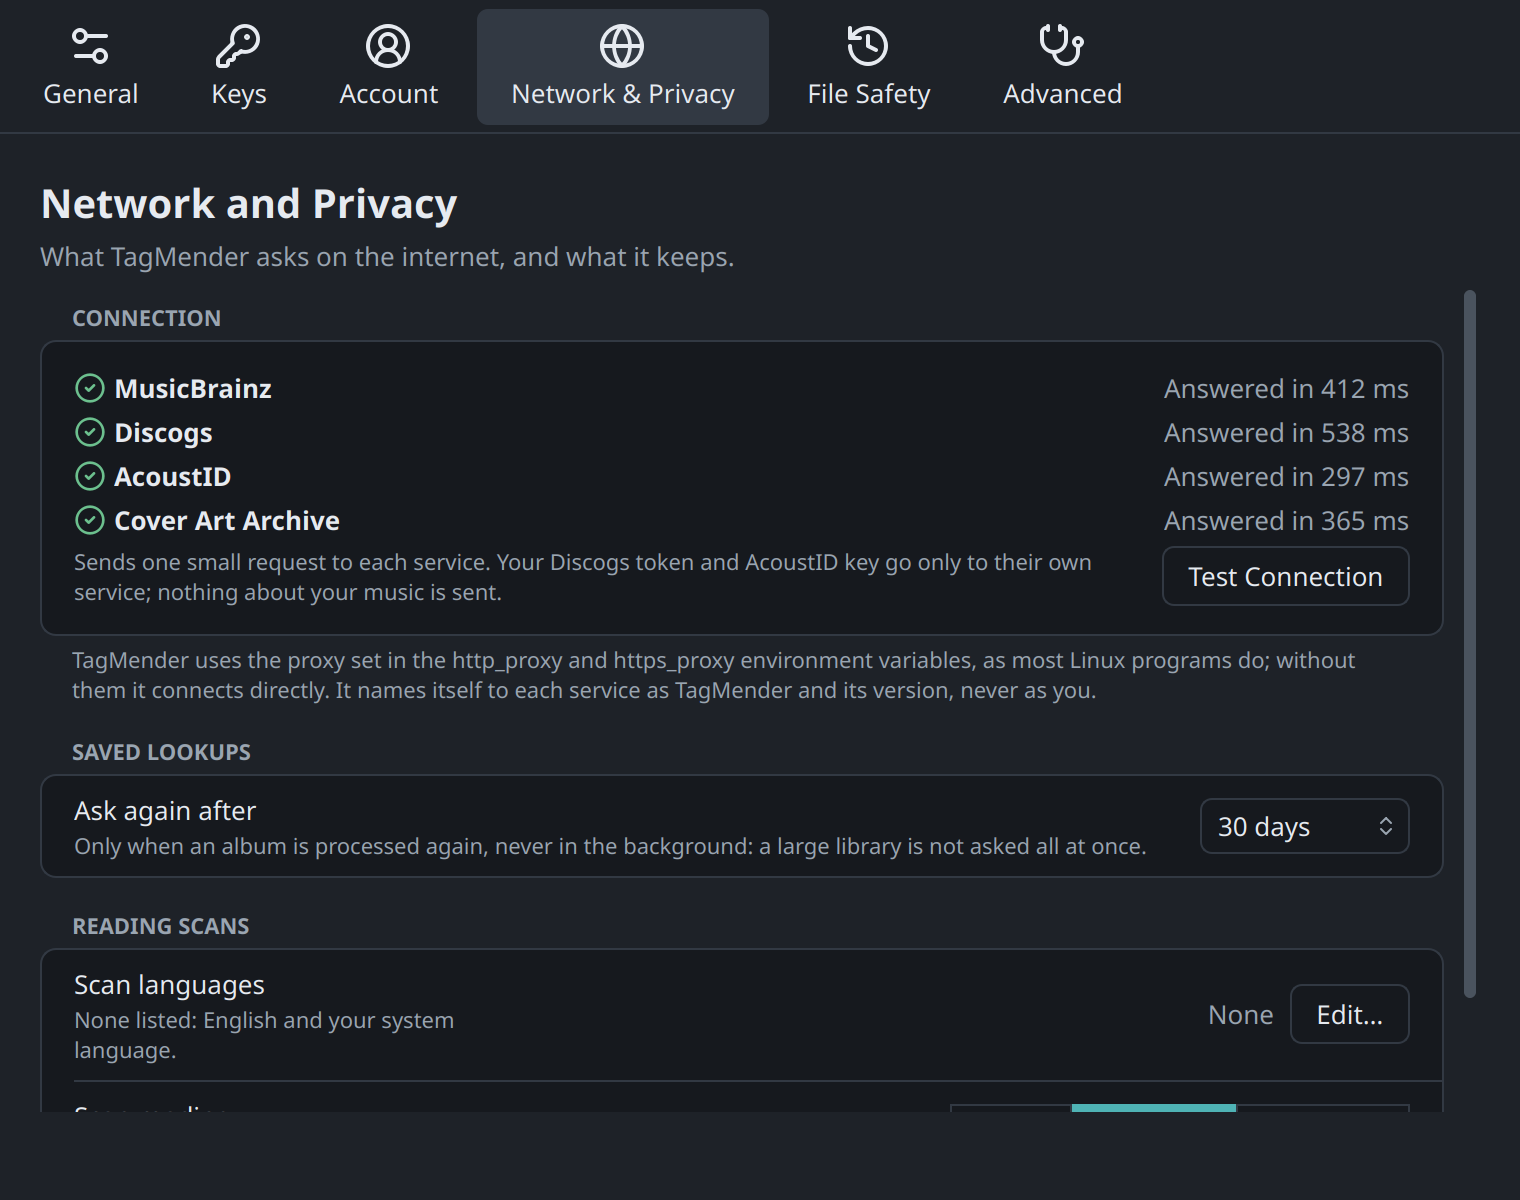
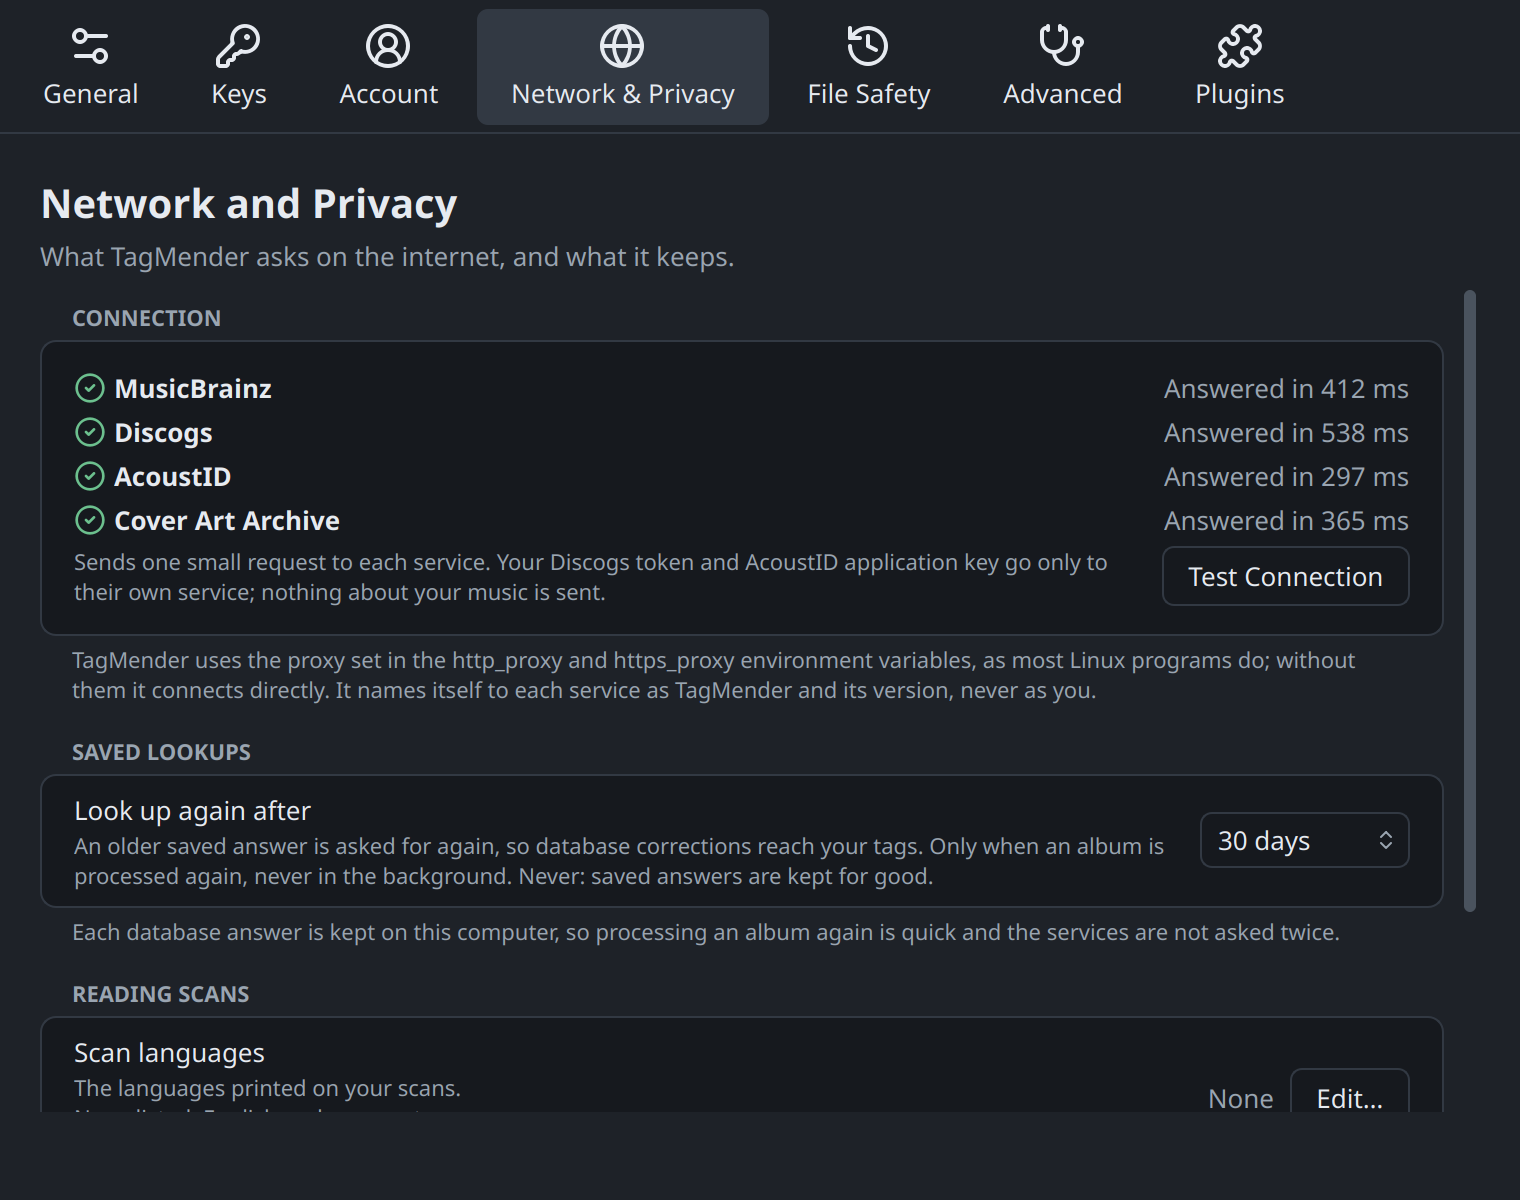
Release 0.8.8
- README screenshots replaced with the current interface
- Start from a preset: only one preset can be chosen
- Overview columns fit the window; no sideways scrolling

diff --git a/gui/overview.py b/gui/overview.py
@@ -367,6 +367,7 @@ class Overview(QWidget):
         self._sized_by_you, self._fitting, self._header_held = set(), False, False
         h.sectionResized.connect(self.column_resized)
         h.viewport().installEventFilter(self)             # (a drag is yours only when it starts on the header)
+        self.table.viewport().installEventFilter(self)    # (the list narrower or wider: fitted to the room)
         self._fit_timer = QTimer(self)
         self._fit_timer.setSingleShot(True)
         self._fit_timer.setInterval(0)
@@ -405,9 +406,10 @@ class Overview(QWidget):
     def filter(self, text):
         self.proxy.setFilterFixedString(text)
 
-    # page widths under which lower-priority columns give way (the inspector shows them all):
-    # Why under 860 px (1280 px with the inspector open), Source and Score under 600 (960 px)
-    NARROW = {5: 860, 3: 600, 7: 520, 2: 420}                  # (Source stays longest: which database said it)
+    # page widths under which lower-priority columns give way (the inspector shows them all), so
+    # the others fit their text without scrolling sideways: Why first, then Score, the scans and
+    # Source (which database said it stays longest)
+    NARROW = {5: 1040, 3: 895, 7: 815, 2: 735}            # (each: the narrowest the rest fit in)
     STATUS_MOST = 150                                 # under 600 px the Status column is cut ("Changed sin…",
                                                       # the whole word in its tooltip): the artist stays in view
 
@@ -422,10 +424,16 @@ class Overview(QWidget):
         self.fit_status()
 
     COLUMN_MOST = {1: 340, 4: 260, 2: 300, 7: 300}       # (fitted, at most: drag for more)
+    # when the fitted columns are wider than the list: these give way first, down to this much
+    # (the album folder and the changes are cut and shown whole when pointed at)
+    COLUMN_LEAST = ((1, 180), (4, 140), (6, 110), (2, 110), (7, 90))
+    LAST_LEAST = 120                                     # (the last column - Why - keeps this much)
 
     def eventFilter(self, obj, e):
         from PySide6.QtCore import QEvent
-        if hasattr(self, "table") and obj is self.table.horizontalHeader().viewport():
+        if hasattr(self, "_fit_timer") and obj is self.table.viewport() and e.type() == QEvent.Resize:
+            self._fit_timer.start()
+        elif hasattr(self, "table") and obj is self.table.horizontalHeader().viewport():
             if e.type() == QEvent.MouseButtonPress and e.button() == Qt.LeftButton:
                 self._header_held = True
             elif e.type() == QEvent.MouseButtonRelease and e.button() == Qt.LeftButton:
@@ -454,11 +462,26 @@ class Overview(QWidget):
         last = self.last_visible_column()
         self._fitting = True
         try:
+            wants = {}
             for c in range(1, len(PlanModel.COLS)):
                 if c in self._sized_by_you or c == last or self.table.isColumnHidden(c):
                     continue
                 want = max(self.table.sizeHintForColumn(c), h.sectionSizeHint(c))
-                want = min(want, self.COLUMN_MOST.get(c, want))
+                wants[c] = min(want, self.COLUMN_MOST.get(c, want))
+            # (all in view where they can be: the widest give way before the list scrolls - while
+            # the list is shown, so measured; it is fitted again when its room changes)
+            room = self.table.viewport().width() if self.table.isVisible() else 0
+            used = sum(wants.get(c, self.table.columnWidth(c)) for c in range(len(PlanModel.COLS))
+                       if c != last and not self.table.isColumnHidden(c))
+            over = used + self.LAST_LEAST - room if room else 0
+            for c, least in self.COLUMN_LEAST:
+                if over <= 0:
+                    break
+                if c in wants and wants[c] > least:
+                    give = min(over, wants[c] - least)
+                    wants[c] -= give
+                    over -= give
+            for c, want in wants.items():
                 if self.table.columnWidth(c) != want:
                     h.resizeSection(c, want)
         finally:

diff --git a/tools/gui_screens.py b/tools/gui_screens.py
@@ -72,7 +72,12 @@ def isolate(scale=1):
     import credentials                                  # (no key of the person's own: Setup shows "Not set")
     for var in credentials.ENV.values():
         os.environ.pop(var, None)
-    os.environ.update(QT_QPA_PLATFORM="offscreen", TAGMENDER_TAGGER_INI="/nonexistent",
+    # (a screen large enough for the biggest window at this scale: Qt's offscreen screen is
+    # otherwise 800x800, and a window larger than its screen is cut to it)
+    screen = tmp / "offscreen.json"
+    screen.write_text(json.dumps({"screens": [{"name": "shots", "x": 0, "y": 0, "width": 4000, "height": 3000,
+                                               "logicalDpi": 96, "logicalBaseDpi": 96, "dpr": 1}]}))
+    os.environ.update(QT_QPA_PLATFORM=f"offscreen:configfile={screen}", TAGMENDER_TAGGER_INI="/nonexistent",
                       PYTHONDONTWRITEBYTECODE="1", QT_ACCESSIBILITY="1")
     sys.dont_write_bytecode = True
 
@@ -469,8 +474,8 @@ def run(out, only):
 def shoot_all(sh, gui, sheets, plan, attention, theme, size, QPoint, QColor, QPainter, Qt):
     import copy
     win = gui.Main()
-    win.resize(*size)
     win.show()
+    win.resize(*size)                                   # (after show: the window first fits itself, 1180x760)
     win.inspector_wanted = True                         # (wanted: it steps aside on the empty Overview)
     win.place_inspector()
     sh.settle(20)
@@ -678,8 +683,8 @@ def shoot_m7(sh, gui, plan, wav, theme, size, QPoint, QColor, QPainter, Qt):
     import copy
     from gui import dialogs, search
     win = gui.Main()
-    win.resize(*size)
     win.show()
+    win.resize(*size)                                   # (after show: the window first fits itself, 1180x760)
     win.inspector_wanted = True
     win.place_inspector()
     sh.settle(20)
@@ -849,8 +854,8 @@ def shoot_m8(sh, gui, plan, found, wav, theme, size, QPoint, QColor, QPainter, Q
     from gui import account, browser, manual_match
     from gui import acoustid_submit as gacs
     win = gui.Main()
-    win.resize(*size)
     win.show()
+    win.resize(*size)                                   # (after show: the window first fits itself, 1180x760)
     win.inspector_wanted = True
     win.place_inspector()
     sh.settle(20)

diff --git a/tests/test_v086_columns.py b/tests/test_v086_columns.py
@@ -17,7 +17,7 @@ def album(folder, why=(), conflicts=()):
 class V086Columns(tg.Gui):
     def test_every_column_can_be_resized_and_a_drag_is_kept(self):
         from gui.models import PlanModel
-        self.win.resize(1500, 800)
+        self.win.resize(2400, 800)                                # (room for every column's text)
         self.win.inspector.hide()
         self.app.processEvents()
         ov = self.win.pages["Overview"]
@@ -72,6 +72,19 @@ class V086Columns(tg.Gui):
         ov.table.horizontalHeader().resizeSection(5, 400)        # (the last column: Qt's, not yours)
         ov._header_held = False
         self.assertEqual(ov._sized_by_you, set())
+
+    def test_columns_give_way_before_the_list_scrolls(self):
+        self.win.resize(1440, 900)                                # (the inspector open: a mid-size page)
+        self.win.inspector.show()
+        self.app.processEvents()
+        ov = self.win.pages["Overview"]
+        ov.model.set_plan({"job": "j", "profile": "p", "operation": "in_place",
+                           "albums": [album("/m/Some Band With A Long Name/An Album With A Long Title", why=["x"])]})
+        ov.views.setCurrentWidget(ov.results)
+        self.win.go("Overview")
+        for _ in range(5):
+            self.app.processEvents()
+        self.assertLessEqual(ov.table.horizontalHeader().length(), ov.table.viewport().width())
 
 
 if __name__ == "__main__":

diff --git a/gui/profile_editor.py b/gui/profile_editor.py
@@ -24,8 +24,8 @@ import html
 from dataclasses import dataclass, field
 
 from PySide6.QtCore import Qt, Signal
-from PySide6.QtWidgets import (QComboBox, QDialog, QInputDialog, QLabel, QLineEdit, QPushButton, QRadioButton,
-                               QScrollArea, QSizePolicy, QVBoxLayout, QWidget)
+from PySide6.QtWidgets import (QButtonGroup, QComboBox, QDialog, QInputDialog, QLabel, QLineEdit, QPushButton,
+                               QRadioButton, QScrollArea, QSizePolicy, QVBoxLayout, QWidget)
 
 import naming
 import profiles as pf
@@ -1337,6 +1337,10 @@ class PresetSheet(QDialog):
             lay.addWidget(self.name)
             lay.addWidget(caption(tr("Start from:"), "hint"))
         self.cards = {}
+        # (one choice: each button sits in its own card, so they are grouped - Qt makes radio
+        # buttons exclusive only among those with the same parent)
+        self.choice = QButtonGroup(self)
+        self.choice.setExclusive(True)
         for key, (title, about, _v) in PRESETS.items():
             card = QWidget()
             v = QVBoxLayout(card)
@@ -1350,6 +1354,7 @@ class PresetSheet(QDialog):
             note.setContentsMargins(24, 0, 0, 0)
             v.addWidget(note)
             lay.addWidget(card)
+            self.choice.addButton(rb)
             self.cards[key] = rb
         self.cards["typical"].setChecked(True)
         lay.addStretch(1)

diff --git a/tests/test_v086_shared_editor.py b/tests/test_v086_shared_editor.py
@@ -64,6 +64,15 @@ class SharedEditor(tg.Gui):
         self.assertTrue(p.save())
         self.assertEqual(pf.load("A").data["genres"]["max"], default)
 
+    def test_only_one_preset_can_be_chosen(self):
+        from gui.profile_editor import PresetSheet
+        dlg = PresetSheet(self.win, "Start from a preset")
+        dlg.cards["collector"].click()
+        dlg.cards["keep"].click()
+        self.assertEqual([k for k, rb in dlg.cards.items() if rb.isChecked()], ["keep"])
+        self.assertEqual(dlg.preset(), "keep")
+        dlg.deleteLater()
+
     def test_a_preset_changes_only_this_profile(self):
         p = self.page("A")
         before = pf.load("B").data["artwork"]["enlarge"]

diff --git a/version.py b/version.py
@@ -1,2 +1,2 @@
 """TagMender's version (one place; packaging and `tagmender --version` read it)."""
-VERSION = "0.8.7"
+VERSION = "0.8.8"

diff --git a/docs/RELEASE_NOTES.md b/docs/RELEASE_NOTES.md
@@ -1,5 +1,14 @@
 # Release notes
 
+## 0.8.8
+
+- *Start from a preset* lets you pick one preset only (all three could be selected at once).
+- Overview: the columns fit the list instead of running past its edge. The widest (album
+  folder, changes, profile) give way first, cut and shown whole when pointed at, and Why, Score,
+  Scans and Source make room in that order as the window narrows, so the Score stays in view
+  at common window sizes. The columns are fitted again when the inspector opens or closes.
+- The README's screenshots show this version.
+
 ## 0.8.7
 
 Fixes to the 0.8.6 changes.

diff --git a/README.md b/README.md
@@ -10,7 +10,7 @@
 </p>
 
 <p align="center">
-  <img alt="Version 0.8.7" src="https://img.shields.io/badge/version-0.8.7-0f7b7b">
+  <img alt="Version 0.8.8" src="https://img.shields.io/badge/version-0.8.8-0f7b7b">
   <img alt="Licence GPL-2.0-or-later" src="https://img.shields.io/badge/licence-GPL--2.0--or--later-blue">
   <img alt="Linux" src="https://img.shields.io/badge/platform-Linux-informational">
   <img alt="Python 3.10+" src="https://img.shields.io/badge/python-3.10%2B-3776ab">
